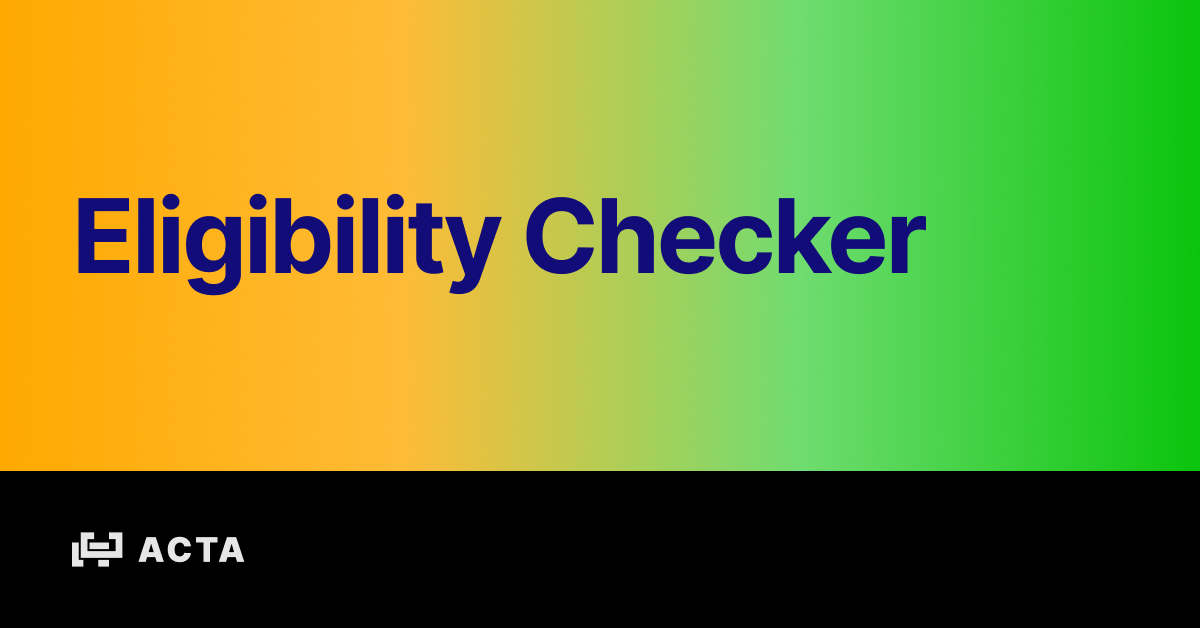
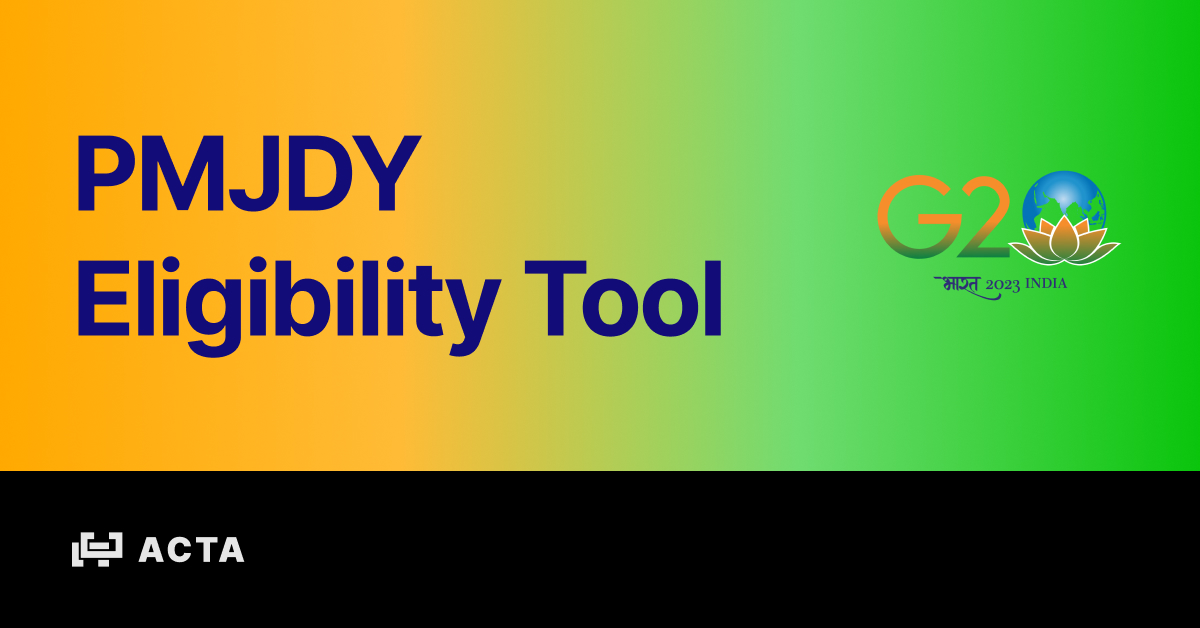
Title Update

Changed region(s): [[0.0617, 0.2118, 0.925, 0.5748]]

diff --git a/src/app/layout.tsx b/src/app/layout.tsx
@@ -29,22 +29,22 @@ export default function RootLayout({
     <html lang={lang}>
       <head>
         {/* Primary Meta Tags */}
-        <title>Team Acta — Hack Sustain 2023</title>
-        <meta name="title" content="Team Acta — Hack Sustain 2023" />
+        <title>PMJDY Eligibility Tool — Acta</title>
+        <meta name="title" content="PMJDY Eligibility Tool — Acta" />
         <meta name="description" content="" />
         <link rel="icon" type="image/x-icon" href="/favicon.png" />
 
         {/* Open Graph / Facebook */}
         <meta property="og:type" content="website" />
         <meta property="og:url" content="https://actahs23.adikul.dev/" />
-        <meta property="og:title" content="Team Acta — Hack Sustain 2023" />
+        <meta property="og:title" content="PMJDY Eligibility Tool — Acta" />
         <meta property="og:description" content="" />
         <meta property="og:image" content="https://actahs23.adikul.dev/thumbnail.jpg" />
 
         {/* Twitter */}
         <meta property="twitter:card" content="summary_large_image" />
         <meta property="twitter:url" content="https://actahs23.adikul.dev/" />
-        <meta property="twitter:title" content="Team Acta — Hack Sustain 2023" />
+        <meta property="twitter:title" content="PMJDY Eligibility Tool — Acta" />
         <meta property="twitter:description" content="" />
         <meta property="twitter:image" content="https://actahs23.adikul.dev/thumbnail.jpg" />
         

diff --git a/src/app/page.tsx b/src/app/page.tsx
@@ -966,7 +966,7 @@ export default function Home() {
     <>
       <header className="flex flex-col w-full bg-hero-gradient text-primary -mt-[60px]">
         <div className="px-[18px] lg:px-0 mt-[136px] mb-[24px] max-w-5xl mx-auto w-full">
-          <h1 className="font-bold text-4xl">Eligibility Checker</h1>
+          <h1 className="font-bold text-4xl">PMJDY Eligibility Tool</h1>
           <p className="text-md mt-[12px] leading-tight">Check your eligibilty for various national and Tamil Nadu state policies under the Pradhan Mantri Jan Dhan Yojna network</p>
           <p className="text-md mt-[4px] leading-tight"><strong>Important Note:</strong> This form assumes you are a citizen of India and have a domicile certificate for the state of Tamil Nadu.</p>
         </div>
